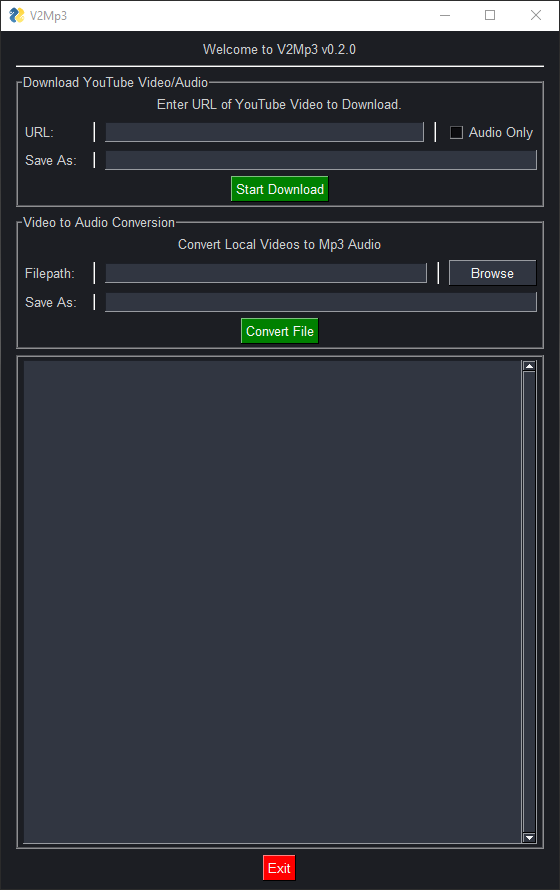
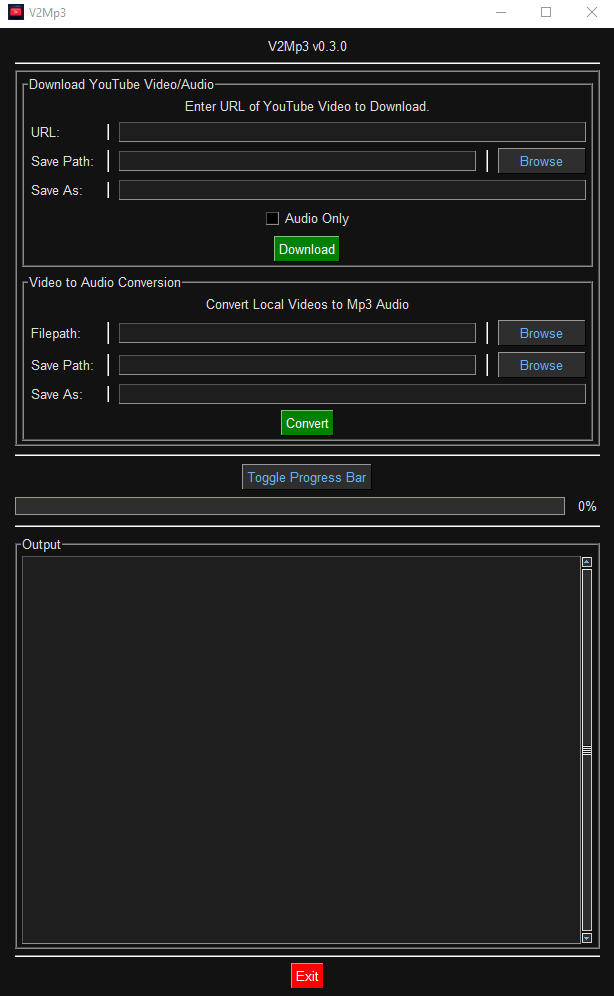
- Added percentage amount to progress bar - Added type to "logger" var - Updated image in "./README.md" - Added "Progress Bar" section to "./README.md" - Small docstring changes

diff --git a/V2Mp3/appEvents/events.py b/V2Mp3/appEvents/events.py
@@ -1,5 +1,6 @@
 import os
 import os.path
+from logging import Logger
 from posixpath import abspath
 from secrets import token_urlsafe as uuid
 
@@ -11,9 +12,9 @@ from V2Mp3.appLoggers.loggers import __setLogger
 
 __version__ = '0.3.0'  # Current program version
 
-logger = __setLogger("V2Mp3")  # Initialize logger
+logger: Logger = __setLogger("V2Mp3")  # Initialize logger
 
-_textborder: str = "=".ljust((78), "=")  # Text border for log organization.
+__textborder: str = "=".ljust((78), "=")  # Text border for log organization.
 
 
 class GUIEvents:
@@ -226,7 +227,7 @@ class GUIEvents:
 
     @staticmethod
     def toggle_bar(vals: dict) -> None:
-        """Toggles the visibility of GUI progress bar/percentage label row based on the state of toggle button.
+        """Toggles the visibility of GUI progress bar based on the state of toggle button.
 
         ---
 
@@ -241,8 +242,8 @@ class GUIEvents:
             logger.info('Toggled progress bar visibility ON')
 
         else:
-            gui.window['-ProgBar-'].update(visible=False)
             gui.window['-%-'].update(visible=False)
+            gui.window['-ProgBar-'].update(visible=False)
             logger.info('Toggled progress bar visibility OFF')
 
 
@@ -350,5 +351,5 @@ def GUILoop() -> None:  # sourcery skip: low-code-quality
                              save_as=vals['-Mp3SaveAs-'],
                              save_to=vals['-Mp3SaveTo-'])
 
-    logger.info(f'Exiting application...\n{_textborder}')
+    logger.info(f'Exiting application...\n{__textborder}')
     gui.window.Close()  # Close window and return resources to OS

diff --git a/V2Mp3/appGUI/gui.py b/V2Mp3/appGUI/gui.py
@@ -156,6 +156,7 @@ GUI: list = [
     ],
     [psg.HorizontalSeparator(pad=5)],
     [
+        # Progress Bar Toggle Button
         [
             psg.ButtonMenu('Toggle Progress Bar',
                            k='-ToggleProgressBar-',
@@ -170,7 +171,7 @@ GUI: list = [
                                 expand_x=True,
                                 max_value=100,
                                 orientation='horizontal')),
-            psg.pin(psg.Text('%', key='-%-', justification='center'))
+            psg.pin(psg.Text('0%', key='-%-', justification='center'))
         ],
     ],
     [psg.HorizontalSeparator(pad=5)],

diff --git a/README.md b/README.md
@@ -137,6 +137,12 @@
 - Newly converted .mp3 audio files can be found within the _**V2Mp3**_ installation directory:
   - `"~/V2Mp3/downloads/audio"`
 
+### **Progress Bar**
+
+- As of now, the progress bar is **NOT** functional.
+- Users can toggle the visibility of the progress bar using the "Toggle Progress Bar" button and selecting the "ON" or "OFF" option.
+- This toggle button will be temporary until the progress bar is fully functional.
+
 ### Quick Look at _**`V2Mp3`**_
 
 ![V2Mp3](./assets/v2mp3_gui.png)
